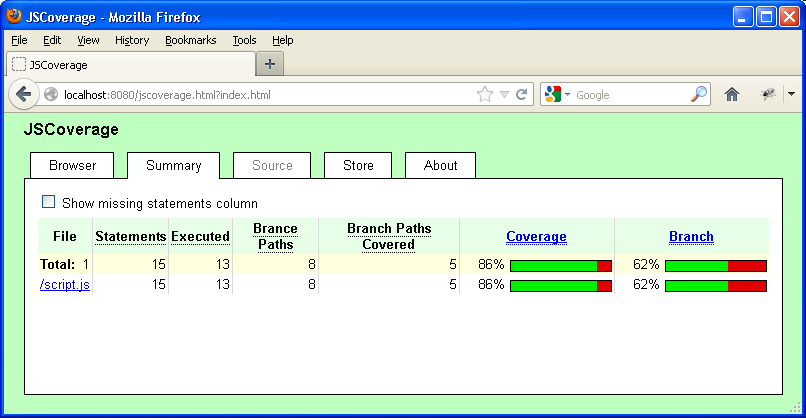
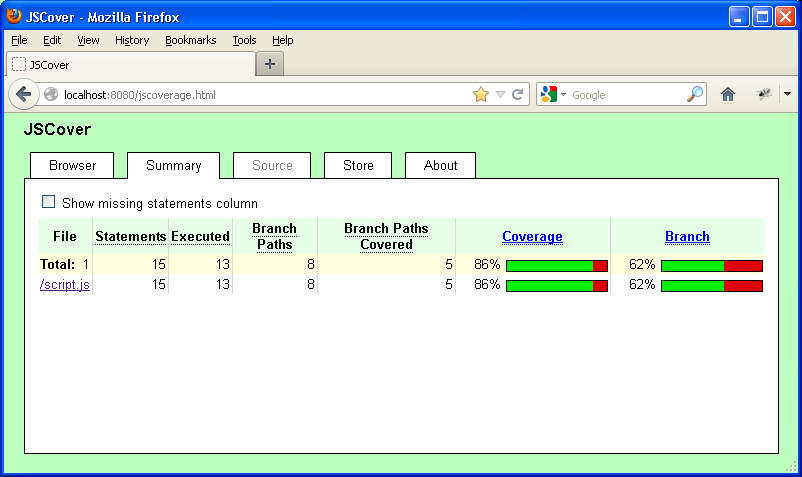
Fix 'Brance' typo

diff --git a/example-qunit/out/jscoverage.html b/example-qunit/out/jscoverage.html
@@ -66,7 +66,7 @@
     <th class="leftColumn">File</th>
     <th><abbr title="The total number of executable statements">Statements</abbr></th>
     <th><abbr title="The number of statements actually executed">Executed</abbr></th>
-    <th><abbr title="The total number of branches">Brance Paths</abbr></th>
+    <th><abbr title="The total number of branches">Branch Paths</abbr></th>
     <th><abbr title="The number of branches covered">Branch Paths Covered</abbr></th>
     <th><a href="javascript:jscoverage_recalculateSummaryTabBy('Coverage')"><abbr title="Number of executed statements as a percentage of total number of statements">Coverage</abbr></a></th>
     <th><a href="javascript:jscoverage_recalculateSummaryTabBy('Branch')"><abbr title="Number of executed branch paths as a percentage of total number of branch paths">Branch</abbr></a></th>

diff --git a/example-report-yui3/jscoverage.html b/example-report-yui3/jscoverage.html
@@ -66,7 +66,7 @@
     <th class="leftColumn">File</th>
     <th><abbr title="The total number of executable statements">Statements</abbr></th>
     <th><abbr title="The number of statements actually executed">Executed</abbr></th>
-    <th><abbr title="The total number of branches">Brance Paths</abbr></th>
+    <th><abbr title="The total number of branches">Branch Paths</abbr></th>
     <th><abbr title="The number of branches covered">Branch Paths Covered</abbr></th>
     <th><a href="javascript:jscoverage_recalculateSummaryTabBy('Coverage')"><abbr title="Number of executed statements as a percentage of total number of statements">Coverage</abbr></a></th>
     <th><a href="javascript:jscoverage_recalculateSummaryTabBy('Branch')"><abbr title="Number of executed branch paths as a percentage of total number of branch paths">Branch</abbr></a></th>
